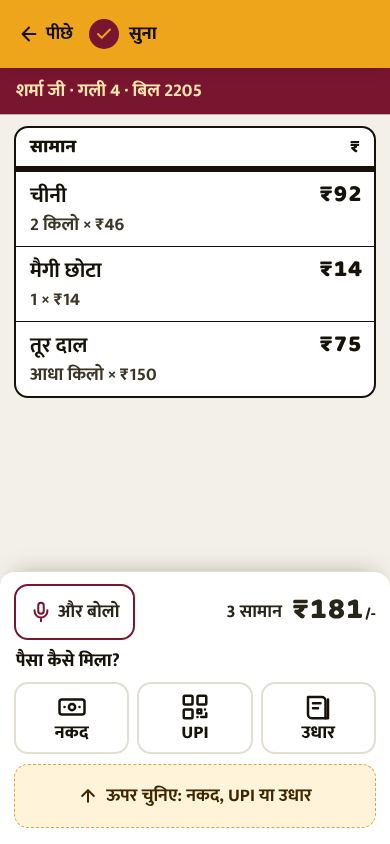
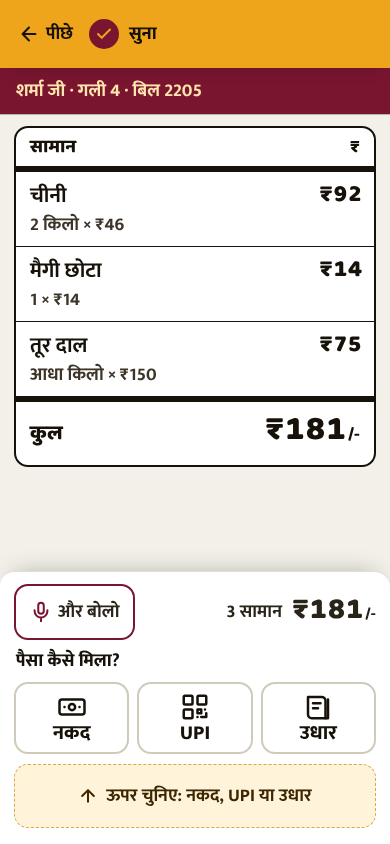
Redo #4 v10 PASSED panel 7/7 (9.15); polish; TASKS + context updated
Claude-Session: https://claude.ai/code/session_01Dc9KGnrAUXnUwkJ5n5yUhd

diff --git a/app/public/proto/index.html b/app/public/proto/index.html
@@ -30,7 +30,7 @@ svg{flex:none}
 .p{transition:transform .12s var(--ease),background-color .15s,border-color .15s}.p:active{transform:scale(.97)}
 @media (prefers-reduced-motion:reduce){*{animation-duration:.01ms!important;transition-duration:.01ms!important}}
 .fig{font-family:"Baloo 2",sans-serif;font-weight:800;font-variant-numeric:tabular-nums}
-.fig .s{font-size:.5em;font-weight:700;margin-left:2px}
+.fig .s{font-size:max(.5em,14px);font-weight:700;margin-left:2px}
 .view{display:none;padding-bottom:140px}
 #done{padding-bottom:32px}.view.on{display:block}
 
@@ -167,7 +167,7 @@ svg{flex:none}
 .hint{min-height:64px;margin-top:10px;border-radius:14px;background:var(--y-50);border:1.5px dashed #D9A84A;color:var(--y-ink)!important;display:flex;align-items:center;justify-content:center;gap:8px;font-weight:700;font-size:18px;color:var(--ink2)}
 .pq{font-size:18px;font-weight:800;margin:0 2px 8px}
 .pays{display:grid;grid-template-columns:repeat(3,1fr);gap:8px}
-.pay{height:72px;border-radius:14px;border:2px solid var(--line);background:#fff;display:flex;flex-direction:column;align-items:center;justify-content:center;gap:0;font-weight:800;font-size:18px;line-height:22px}
+.pay{height:72px;border-radius:14px;border:2px solid #CFCAB9;background:#fff;display:flex;flex-direction:column;align-items:center;justify-content:center;gap:0;font-weight:800;font-size:18px;line-height:22px}
 .pay small{font-size:17px;font-weight:600;color:var(--ud);line-height:20px}
 .pay{position:relative}
 .pay.on{border:3px solid var(--mr);background:var(--y)}
@@ -208,6 +208,7 @@ svg{flex:none}
 .dt span{font-size:18px;font-weight:700;color:var(--ink2)}.dt b{font-size:30px;line-height:34px}.dt small{font-size:17px;color:var(--mute);font-weight:700;margin-right:6px}
 body.hi .ok i.seal span{font-size:32px!important;letter-spacing:0}
 body.hi .tag span:first-child{font-size:20px}body.hi .undo span{font-size:19px}
+body.hi .pay{font-size:20px}
 body.hi .batch{font-family:"Mukta";font-weight:700;letter-spacing:0}
 body.hi .shop b,body.hi .sec h2,body.hi .ok b{line-height:1.35}
 </style>
@@ -332,7 +333,7 @@ const T={
   o1:'2 नए ऑनलाइन ऑर्डर',o1s:'पैक करके तैयार करो',see:'देखो',u1:'मिश्रा जी',u1s:'₹2,523 · 5 दिन से बाकी',remind:'याद दिलाओ',l1:'माचिस, फ्रूटी',l1s:'1–2 दिन का माल बचा',order:'मंगाओ',c1:'3 सामान गिनो',c1s:'1 मिनट का काम',start:'शुरू',note:'प्रोटोटाइप · रीडू 4 · v4 · TEST दुकान के आँकड़े · कुछ सेव नहीं होता',
   back:'पीछे',listen:'सुन रहा हूँ…',heard:'सुना',stop:'बस',batchB:'बिल नं. 2205 · 24 नवंबर · शाम 6:15',batchP:'शर्मा जी · गली 4 · बिल 2205',said:'शर्मा जी, दो किलो चीनी, एक मैगी, आधा किलो तूर दाल',sharma:'शर्मा जी · गली 4',old:'पहले का उधार ₹2,416/-',change:'बदलो',colI:'सामान',empty:'बोलते जाइए, सामान यहाँ लिखता जाएगा',total:'कुल',about:'लगभग',why:'पहले ऊपर मैगी चुनो',how:'पैसा कैसे मिला?',usual:'अक्सर',khata:'शर्मा जी का खाता',save0:'ऊपर चुनिए: नकद, UPI या उधार',saveC:'पक्का करो · नकद ₹181',saveP:'पक्का करो · UPI ₹181',saveU:'पक्का करो · उधार ₹181',
   names:['चीनी','मैगी छोटा?','तूर दाल'],units:['2 किलो × ₹46','1 × ₹14','आधा किलो × ₹150'],q:['2 किलो','1','आधा किलो'],ask:'यही वाली मैगी? (मैगी छोटा, ₹14)',yes:'हाँ, यही',no:'दूसरी मैगी',
-  saved:'बिल बन गया',nowsale:'आज की बिक्री अब ₹14,399/- · 69 बिल',batchS:'बिल नं. 2205 · शाम 6:15 ✓',nitems:'3 सामान',i1:'चीनी · 2 किलो',i2:'मैगी छोटा · 1',i3:'तूर दाल · आधा किलो',tagU:'उधार में गया|खाता ₹2,597/-',tagC:'नकद मिला|₹181/-',tagP:'UPI से मिला|₹181/-',send:'WhatsApp करो',home:'घर',undonote:'गलती हुई? अगले बिल तक वापस ले सकते हैं।',undo:'वापस लो',
+  saved:'बिल बन गया',nowsale:'आज की बिक्री अब ₹14,399/- · 69 बिल',batchS:'बिल नं. 2205 · शाम 6:15 ✓',nitems:'3 सामान',i1:'चीनी · 2 किलो',i2:'मैगी छोटा · 1',i3:'तूर दाल · आधा किलो',tagU:'उधार में गया|खाता ₹2,597/-',tagC:'नकद मिला|₹181/-',tagP:'UPI से मिला|₹181/-',send:'WhatsApp करो',home:'घर',undonote:'गलती हुई? अगले बिल तक वापस लो।',undo:'वापस लो',
   tHome:'घर',tBill:'बिल',tMaal:'माल',tUd:'उधार',mic:'बोलो',micB:'और बोलो',sofar:'अब तक',itm:'सामान',seal:'पक्का',next:'अगला बिल · बोलो'},
  en:{shop:'Sharma General Store',area:'Grocery · Rajwada, Indore',set:'Settings',sold:"Today's sales",date:'Tue, 24 Nov',bills:'68 bills',cash:'Cash',udg:'Udhaar given',udhaar:'Udhaar',duel:'Total udhaar due · 15 people',batchH:'24 NOV · 23 DAYS OF ACCOUNTS ✓',todo:'To do today',todon:'4 tasks',
   o1:'2 new online orders',o1s:'Pack and mark ready',see:'View',u1:'Mishra ji',u1s:'₹2,523 · due 5 days',remind:'Remind',l1:'Matchbox, Frooti',l1s:'1–2 days of stock left',order:'Order',c1:'Count 3 items',c1s:'Takes 1 minute',start:'Start',note:'Prototype · redo 4 · v10 · TEST store numbers · nothing is saved',
@@ -349,11 +350,11 @@ const AMT=[92,14,75]
 function row(i){const q=i===1;return `<div class="tr${q?' q':''}"><div class="a"><span class="nm"><b>${D.names[i]}</b></span><span class="fig">₹${AMT[i]}</span></div><div class="c"><span>${D.units[i]}</span><b class="qty">${D.q[i]}</b><div class="stp"><button aria-label="-"><svg width="20" height="20"><use href="#minus"/></svg></button><em>${D.q[i]}</em><button aria-label="+"><svg width="20" height="20"><use href="#plus"/></svg></button></div></div>${q?`<div class="ask"><p>${D.ask}</p><div><button class="p">${D.no}</button><button class="y p" onclick="ok(this)"><svg width="20" height="20"><use href="#check"/></svg>${D.yes}</button></div></div>`:''}</div>`}
 function fit(){requestAnimationFrame(()=>{const d=$('#dock');$('#billv').style.paddingBottom=(d.offsetHeight+24)+'px';setTimeout(()=>{const done=$('#billv').classList.contains('done'),top=done?68+$('#billv .batch').offsetHeight+8:0,lim=innerHeight-d.offsetHeight-10,q=$('.tr.q');if(q){const r=q.getBoundingClientRect();if(r.bottom>lim)scrollBy({top:r.bottom-lim});return}const t=$('#tbl').getBoundingClientRect();if(!open){if(t.bottom>lim)scrollBy({top:t.bottom-lim});return}if(t.bottom>lim){const want=Math.min(t.bottom-lim+0,t.top-top);const c=$('#cust').getBoundingClientRect();let dy=Math.max(t.bottom-lim,c.bottom-top+4);scrollBy({top:dy})}},30)})}
 async function listen(){$('#billv').classList.remove('done','payst');setTimeout(()=>{$('#run').style.display='flex';$('#runl').textContent=D.sofar;$('#runv').textContent='₹0'},0);scrollTo(0,0);open=true;pay=null;$('#rows').innerHTML=`<div class="empty">${D.empty}</div>`;$('#nav').classList.add('hear');$('#tt').style.display='none';$('#dock').classList.remove('on');$('#cust').classList.remove('on');$('#listen').classList.remove('done');$('#hl').textContent=D.listen;$('#htxt').innerHTML='';document.querySelectorAll('.pay').forEach(x=>x.classList.remove('on'))
- const w=D.said.split(' ');let s='';for(let i=0;i<w.length;i++){await wait(220);$('#htxt').innerHTML=s+(i?' ':'')+'<mark>'+w[i]+'</mark>';s+=(i?' ':'')+w[i];if(i===1)$('#cust').classList.add('on');if(i===4||i===6||i===10){{const k=i===4?0:i===6?1:2,e=$('#rows .empty');$('#ghost')?.remove();e?e.outerHTML=row(k):$('#rows').insertAdjacentHTML('beforeend',row(k));const n=k+1,t=AMT.slice(0,n).reduce((a,b)=>a+b,0);$('#run').style.display='flex';$('#runl').textContent=D.sofar+' · '+n+' '+D.itm;$('#runv').textContent='₹'+t}}}
+ const w=D.said.split(' ');let s='';for(let i=0;i<w.length;i++){await wait(220);$('#htxt').innerHTML=s+(i?' ':'')+'<mark>'+w[i]+'</mark>';s+=(i?' ':'')+w[i];if(i===1)$('#cust').classList.add('on');if(i===4||i===6||i===10){{const k=i===4?0:i===6?1:2,e=$('#rows .empty');$('#ghost')?.remove();e?e.outerHTML=row(k):$('#rows').insertAdjacentHTML('beforeend',row(k));const n=k+1,t=AMT.slice(0,n).reduce((a,b)=>a+b,0);$('#run').style.display='flex';$('#runl').textContent=D.sofar+' · '+n+' '+D.itm;$('#runv').innerHTML='₹'+t+'<span class="s">/-</span>'}}}
  await wait(300);$('#htxt').textContent=s;$('#listen').classList.add('done');$('#billv').classList.add('done');$('#ghost')?.remove();$('#nav').classList.remove('hear');$('#run').style.display='none';$('#hl').textContent=D.heard;$('#dock').classList.add('on');state()}
 function stopNow(){}
 function ok(b){const l=b.closest('.tr');l.classList.remove('q');l.querySelector('.ask').remove();l.querySelector('b').textContent=D.names[1].replace('?','');open=false;state()}
-function state(){$('#billv').classList.toggle('payst',!open);$('#bandB').textContent=open?D.batchB:D.batchP;$('#why').style.display=open?'flex':'none';$('#lagd').style.display=open?'':'none';$('#dt .dtl').style.display=open?'none':'';$('#payw').style.display=open?'none':'block';$('#lag').style.display=open?'':'none';$('#save').style.display=pay?'flex':'none';$('#hint').style.display=pay?'none':'flex';$('#savet').textContent=pay==='u'?D.saveU:pay==='p'?D.saveP:D.saveC;$('#math').style.display=pay==='u'?'flex':'none';fit()}
+function state(){$('#billv').classList.toggle('payst',!open);$('#tt').style.display=open?'none':'flex';$('#bandB').textContent=open?D.batchB:D.batchP;$('#why').style.display=open?'flex':'none';$('#lagd').style.display=open?'':'none';$('#dt .dtl').style.display=open?'none':'';$('#payw').style.display=open?'none':'block';$('#lag').style.display=open?'':'none';$('#save').style.display=pay?'flex':'none';$('#hint').style.display=pay?'none':'flex';$('#savet').textContent=pay==='u'?D.saveU:pay==='p'?D.saveP:D.saveC;$('#math').style.display=pay==='u'?'flex':'none';fit()}
 document.querySelectorAll('.pay').forEach(b=>b.onclick=()=>{pay=b.dataset.p;document.querySelectorAll('.pay').forEach(x=>x.classList.toggle('on',x===b));state()})
 function saved(){const t=$('#tag'),v=(pay==='u'?D.tagU:pay==='p'?D.tagP:D.tagC).split('|');t.className='tag'+(pay==='u'?'':' c');t.innerHTML=`<span>${v[0]}</span><span class="fig">${v[1]}</span>`;go('done');setTimeout(()=>navigator.vibrate&&navigator.vibrate([20,30,60]),300)}
 paint()

diff --git a/TASKS.md b/TASKS.md
@@ -124,7 +124,9 @@ Approved, in this order:
 - ❌ v7 FAILED 5/7 YES (Aman, Rekha, Pooja, Baldev, super-app director), avg 8.89. NO: Shyam 8.7 (mic out of thumb reach, small brown text), payments designer 8.7 (band/customer card half-cut under sticky strip, steppers on review screen).
 - ❌ v8 FAILED 5/7 YES, avg 8.96 (Shyam 8.7, payments designer 8.7 NO). Left: "Bas" out of thumb reach while listening, picked payment too subtle in sunlight, empty gap above pay sheet, khata line cramped, qty shown twice, Hinglish "Save" vs Hindi "पक्का".
 - ❌ v9 FAILED 6/7 YES, avg 9.00 (only payments designer NO: 9/8/9 — pay sheet not pinned to bottom, Save button moves between steps, white strip below; heard-word white box looks like a glitch).
-- 🔄 v10: pin sheet, padding so last row clears it, "/-" on every total, underline heard word, darker "lagbhag", bigger Hindi chip text, bigger pay icons, warmer page tint.
+- ✅ v10 "MRP box" PASSED 7/7 YES, avg 9.15 (Shyam 9.0 · Aman 9.0 · Rekha 9.3 · Pooja 9.0 · Baldev 9.3 · payments designer 9.0 ×2 · super-app director 9.3 ×2). Polish applied after pass: "/-" min 14px, Kul row on pay/ready, "/-" on running total, bigger Hindi pay labels, darker tile borders, shorter Hindi undo note. Live at /proto/ (?lang=hi). Score path: 6.3 → 7.44 → 7.93 → 8.15 → 8.33 → 8.74 → 8.89 → 8.96 → 9.00 → 9.15.
+- ⏳ Owner approves v10 on phone → then rebuild ALL merchant screens in this design (Maal, Udhaar, Bill list, Hisaab, Galla, Orders, Settings, receipt, onboarding w/ language), then customer pages (customer panel), then admin (admin panel).
+- ⏳ Write DESIGN.md v4 "MRP box" (tokens + rules) when owner approves; current DESIGN.md (v3) moves to design/DESIGN-prev.md.
 
 ## S5 · Daily payoff
 - ✅ Home shows real today's sales and udhaar.

diff --git a/.context/INDEX.md b/.context/INDEX.md
@@ -9,7 +9,7 @@ Format: topic → 1–2 line summary → file. Keep each line short. Update the 
 | Decisions | Name OmniOS Dukaan; tabs Ghar·Bill·Maal·Udhaar + mic; 3 languages; price learned after 3 bills; returns by "wapas"; no expiry; PIN lockout; pickup-only store. | decisions.md (→ DECISIONS.md, ONLINE_STORE.md) |
 | Tech | React19+Vite+TS in app/, Vercel (omnidukaan + omnios-dukaan, both from main), Supabase msqmuvqhbxyrhogbhtta, edge fns login/admin/understand(Gemini). Container can't reach vercel.app → use Vercel MCP. | tech.md |
 | Tasks | Live list in TASKS.md (always read). Now: **UI REDO #4**. Then returns, admin usage+CSV, speed+speak settings, .items master file. | ../TASKS.md |
-| UI redo #4 | From absolute scratch, versions one by one; 9-vote panel (5 merchants ×1 + 2 premium designers ×2); pass/fail per version, fail = redo from scratch. | ui-redo-4.md |
+| UI redo #4 | v10 "MRP box" (haldi + maroon packet language) PASSED 7/7, 9.15. Waiting owner phone approval → full rebuild. | ui-redo-4.md |
 | Design history | v3 "Clean counter" shipped; redo #3 prototype v6 (bahi green+saffron, Anek, awning/stamp) passed old panel but owner wants fresh start. | design-history.md |
 | Money | Revenue streams + sponsored items (60% to stores, ask owner later). | ../REVENUE.md |
 | Code map | graphify 0.9.118. `graphify query "<q>"` before grepping; rebuild: `graphify update app/src --force` then copy app/src/graphify-out/* to graphify-out/. | ../graphify-out/GRAPH_REPORT.md |

diff --git a/.context/ui-redo-4.md b/.context/ui-redo-4.md
@@ -10,3 +10,9 @@
 - Loop: build 1 version → full panel → pass = owner approves on phone → rebuild; fail = new version from scratch (not a patch).
 - After approval: merchant screens → customer pages (customer panel) → admin (admin panel). Language at onboarding + Settings.
 - Versions: keep current + one -prev in design/.
+
+## Result (24 Nov)
+- v1 calendar 6.3 ✗ → v2–v10 "MRP box" (packet world). v10 PASSED 7/7, 9.15.
+- v10 look: haldi #EFA51B field, maroon #7A1530 printed band (batch code: date / bill no / customer), money in 2px-ink ruled MRP boxes with "/-" (min 14px), bill = ruled packet table (6px rules), maroon = only primary (Bolo, Save "Pakka karo", Haan, Bas), Baloo 2 figures + Mukta text, radius 14 everywhere, page #F2F0E9.
+- v10 flow: Bolo (tab bar centre, flat) → listening: big transcript, underline on heard word, Bas + "Ab tak" total in bottom bar → strip collapses (Peeche · ✓ Suna), band sticks → pinned bottom sheet: Aur bolo (only mic) + total; unsure item blocks with hint slot; pay tiles (picked = 3px maroon + ✓ badge, nothing preselected) → khata sum → "Pakka karo · Udhaar ₹181" → saved: PAKKA ink stamp, band prints SAVED, table + udhaar tag, Agla bill · Bolo, WhatsApp/Ghar, Wapas lo.
+- Prev versions: design/redo4/proto-v*-prev.html, screenshots design/redo4/v*.png.

diff --git a/.context/log.md b/.context/log.md
@@ -1,5 +1,6 @@
 # Session log (newest first)
 - 24 Nov: .context/ created (owner: keep context small). Start rule = INDEX + TASKS + graphify. Owner answered redo #4 questions (see ui-redo-4.md). Starting redo #4.
+- 24 Nov: v10 PASSED 7/7 (9.15). Waiting owner approval on phone before rebuild.
 - 24 Nov: v8 8.96, v9 9.00 (6/7 YES); v10 = bottom-sheet craft.
 - 24 Nov: v7 8.89 (5/7 YES); v8 = last craft fixes.
 - 24 Nov: v6 8.74 (2 YES); v7 = layout fix + stamp.
